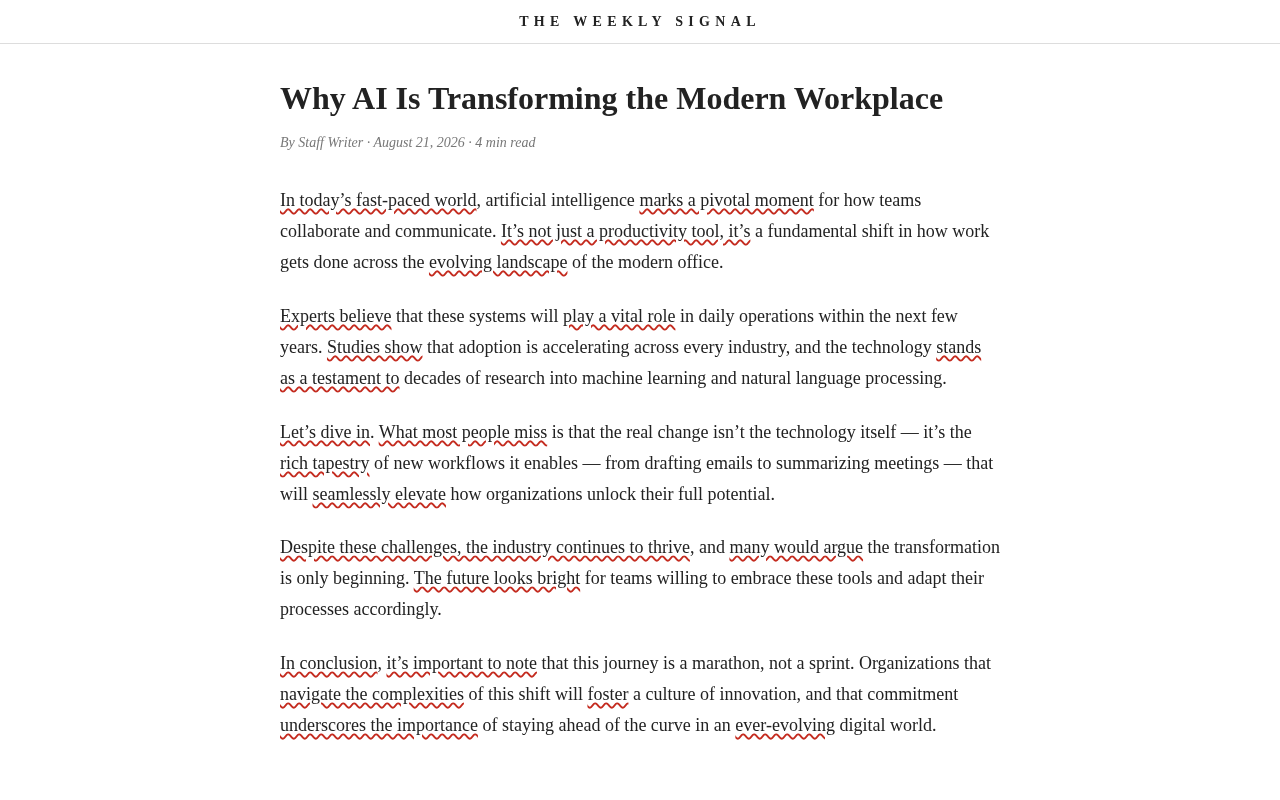
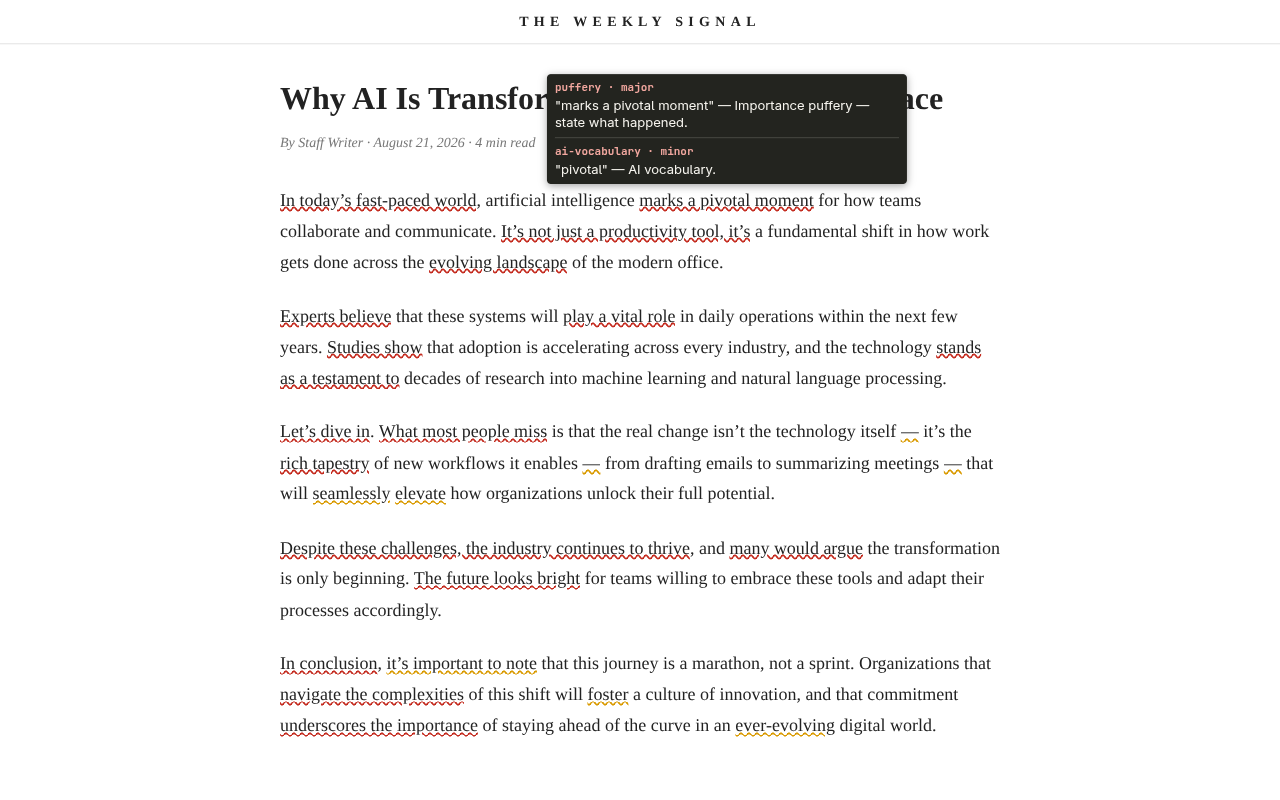
Color the popup by severity and recapture store screenshots
Popup marks and finding rows use the page colors: red for major, amber for
minor. A mark that merges overlapping findings is major if any of them is,
and its title names every rule, so popup marks explain themselves too.

The popup now has a test for its verdict, score, marked text, and findings,
which closes the one untested guarantee in AGENTS.md.

The page screenshot source no longer fakes underlines with hand-placed
spans. Both store screenshots are captured from the real extension, and
docs/releasing.md records how.

diff --git a/store-assets/source/page-underlines.html b/store-assets/source/page-underlines.html
@@ -4,6 +4,7 @@
 <meta charset="utf-8">
 <meta name="viewport" content="width=device-width, initial-scale=1">
 <title>Slop Detector — page underlines</title>
+<!-- Plain prose. Capture it with the extension loaded so the screenshot shows the real underlines and hover label. -->
 <style>
   * { box-sizing: border-box; }
   html, body { width: 1280px; height: 800px; margin: 0; overflow: hidden; background: #fff; color: #222; }
@@ -16,13 +17,6 @@
   h1 { margin: 0 0 14px; font-size: 32px; line-height: 1.15; }
   .byline { margin: 0 0 30px; color: #777; font-size: 14px; font-style: italic; }
   p { margin: 0 0 23px; font-size: 18px; line-height: 1.72; }
-  .mark {
-    text-decoration-line: underline;
-    text-decoration-style: wavy;
-    text-decoration-color: #C42B1F;
-    text-decoration-thickness: 1.5px;
-    text-underline-offset: 2px;
-  }
 </style>
 </head>
 <body>
@@ -31,15 +25,15 @@
     <h1>Why AI Is Transforming the Modern Workplace</h1>
     <p class="byline">By Staff Writer · August 21, 2026 · 4 min read</p>
 
-    <p><span class="mark">In today’s fast-paced world</span>, artificial intelligence <span class="mark">marks a pivotal moment</span> for how teams collaborate and communicate. <span class="mark">It’s not just a productivity tool, it’s</span> a fundamental shift in how work gets done across the <span class="mark">evolving landscape</span> of the modern office.</p>
+    <p>In today’s fast-paced world, artificial intelligence marks a pivotal moment for how teams collaborate and communicate. It’s not just a productivity tool, it’s a fundamental shift in how work gets done across the evolving landscape of the modern office.</p>
 
-    <p><span class="mark">Experts believe</span> that these systems will <span class="mark">play a vital role</span> in daily operations within the next few years. <span class="mark">Studies show</span> that adoption is accelerating across every industry, and the technology <span class="mark">stands as a testament to</span> decades of research into machine learning and natural language processing.</p>
+    <p>Experts believe that these systems will play a vital role in daily operations within the next few years. Studies show that adoption is accelerating across every industry, and the technology stands as a testament to decades of research into machine learning and natural language processing.</p>
 
-    <p><span class="mark">Let’s dive in</span>. <span class="mark">What most people miss</span> is that the real change isn’t the technology itself — it’s the <span class="mark">rich tapestry</span> of new workflows it enables — from drafting emails to summarizing meetings — that will <span class="mark">seamlessly elevate</span> how organizations unlock their full potential.</p>
+    <p>Let’s dive in. What most people miss is that the real change isn’t the technology itself — it’s the rich tapestry of new workflows it enables — from drafting emails to summarizing meetings — that will seamlessly elevate how organizations unlock their full potential.</p>
 
-    <p><span class="mark">Despite these challenges, the industry continues to thrive</span>, and <span class="mark">many would argue</span> the transformation is only beginning. <span class="mark">The future looks bright</span> for teams willing to embrace these tools and adapt their processes accordingly.</p>
+    <p>Despite these challenges, the industry continues to thrive, and many would argue the transformation is only beginning. The future looks bright for teams willing to embrace these tools and adapt their processes accordingly.</p>
 
-    <p><span class="mark">In conclusion</span>, <span class="mark">it’s important to note</span> that this journey is a marathon, not a sprint. Organizations that <span class="mark">navigate the complexities</span> of this shift will <span class="mark">foster</span> a culture of innovation, and that commitment <span class="mark">underscores the importance</span> of staying ahead of the curve in an <span class="mark">ever-evolving</span> digital world.</p>
+    <p>In conclusion, it’s important to note that this journey is a marathon, not a sprint. Organizations that navigate the complexities of this shift will foster a culture of innovation, and that commitment underscores the importance of staying ahead of the curve in an ever-evolving digital world.</p>
   </main>
 </body>
 </html>

diff --git a/extension/popup.js b/extension/popup.js
@@ -9,26 +9,31 @@
     return s.replace(/[&<>"']/g, (c) => ({ "&": "&amp;", "<": "&lt;", ">": "&gt;", '"': "&quot;", "'": "&#39;" }[c]));
   }
 
+  /* Overlapping findings share one mark, which is major if any of them is and names every rule. */
   function mergeSpans(findings) {
-    const spans = findings.filter((f) => f.end > f.start).map((f) => [f.start, f.end]);
-    spans.sort((a, b) => a[0] - b[0]);
+    const spans = findings.filter((f) => f.end > f.start).sort((a, b) => a.start - b.start);
     const merged = [];
-    for (const [s, e] of spans) {
+    for (const f of spans) {
       const last = merged[merged.length - 1];
-      if (last && s <= last[1]) last[1] = Math.max(last[1], e);
-      else merged.push([s, e]);
+      if (last && f.start <= last.end) {
+        last.end = Math.max(last.end, f.end);
+        last.findings.push(f);
+      } else {
+        merged.push({ start: f.start, end: f.end, findings: [f] });
+      }
     }
     return merged;
   }
 
   function renderMarked(text, findings) {
-    const spans = mergeSpans(findings);
     let html = "";
     let cursor = 0;
-    for (const [s, e] of spans) {
-      html += escapeHtml(text.slice(cursor, s));
-      html += `<mark>${escapeHtml(text.slice(s, e))}</mark>`;
-      cursor = e;
+    for (const { start, end, findings: within } of mergeSpans(findings)) {
+      const severity = within.some((f) => f.severity === "major") ? "major" : "minor";
+      const title = within.map((f) => `${f.ruleId} · ${f.severity}: ${f.message}`).join("\n");
+      html += escapeHtml(text.slice(cursor, start));
+      html += `<mark class="${severity}" title="${escapeHtml(title)}">${escapeHtml(text.slice(start, end))}</mark>`;
+      cursor = end;
     }
     html += escapeHtml(text.slice(cursor));
     return html;
@@ -62,7 +67,7 @@
     marked.style.display = "block";
 
     list.innerHTML = r.findings
-      .map((f) => `<li><span class="tag">${f.ruleId} · ${f.severity}</span>${escapeHtml(f.message)}</li>`)
+      .map((f) => `<li class="${f.severity === "major" ? "major" : "minor"}"><span class="tag">${f.ruleId} · ${f.severity}</span>${escapeHtml(f.message)}</li>`)
       .join("");
     list.style.display = "block";
   }

diff --git a/test-extension.js b/test-extension.js
@@ -127,3 +127,42 @@ test("the extension stays local and keeps its permission set", () => {
     assert.doesNotMatch(source, network, `${name} must not reach the network`);
   }
 });
+
+test("the popup shows a verdict, a score, the marked text, and why each finding fired", async (t) => {
+  const html = fs.readFileSync(extensionFile("popup.html"), "utf8");
+  const dom = new JSDOM(html, { runScripts: "outside-only" });
+  t.after(() => dom.window.close());
+  dom.window.chrome = {
+    storage: {
+      sync: { get: (defaults, callback) => callback(defaults), set: () => {} },
+      session: { get: async () => ({}), remove: async () => {} },
+    },
+  };
+  dom.window.eval(fs.readFileSync(extensionFile("engine.js"), "utf8"));
+  dom.window.eval(fs.readFileSync(extensionFile("popup.js"), "utf8"));
+  const doc = dom.window.document;
+  const text = "Two job offers. Two kids. This launch marks a pivotal moment for the team.";
+  doc.getElementById("input").value = text;
+  doc.getElementById("check").click();
+
+  const { findings, label, score } = dom.window.SlopEngine.analyze(text);
+  assert.equal(doc.getElementById("stamp").textContent, label);
+  assert.equal(doc.getElementById("score").textContent, `${score}/100`);
+  assert.equal(doc.getElementById("marked").textContent, text, "marking never changes the text");
+
+  const items = [...doc.querySelectorAll("#findings li")];
+  assert.equal(items.length, findings.length);
+  findings.forEach((f, i) => {
+    assert.ok(items[i].textContent.includes(`${f.ruleId} · ${f.severity}`));
+    assert.ok(items[i].textContent.includes(f.message));
+    assert.ok(items[i].classList.contains(f.severity));
+  });
+
+  const marks = [...doc.querySelectorAll("#marked mark")];
+  const pivotal = marks.find((m) => m.textContent.includes("pivotal"));
+  assert.ok(pivotal.classList.contains("major"), "a span holding a major finding is marked major");
+  assert.match(pivotal.title, /puffery · major/);
+  assert.match(pivotal.title, /ai-vocabulary · minor/);
+  const fragment = marks.find((m) => m.textContent === "Two job offers.");
+  assert.ok(fragment.classList.contains("minor"));
+});

diff --git a/extension/popup.html b/extension/popup.html
@@ -12,6 +12,7 @@
     --amber: #8A6100;
     --green: #2E6B34;
     --mark: #F9E27D;
+    --minor: #A87400;
   }
   * { box-sizing: border-box; }
   body {
@@ -52,12 +53,14 @@
     font: 13px/1.7 "Courier New", monospace; white-space: pre-wrap; word-wrap: break-word;
   }
   mark {
-    background: var(--mark);
+    background: var(--mark); color: inherit;
     border-bottom: 2px solid var(--red);
     padding: 0 1px;
   }
+  mark.minor { background: #FBF0C4; border-bottom-color: var(--minor); }
   #findings { margin: 12px 0 0; padding: 0; list-style: none; display: none; }
   #findings li { margin-bottom: 8px; padding-left: 10px; border-left: 3px solid var(--red); }
+  #findings li.minor { border-left-color: var(--minor); }
   #findings .tag {
     display: block; font: 700 10px/1.6 "Courier New", monospace;
     letter-spacing: .08em; text-transform: uppercase; color: var(--graphite);

diff --git a/AGENTS.md b/AGENTS.md
@@ -25,7 +25,7 @@ and keep README.md and STORE_LISTING.md describing it.
 | Underline color follows the rule's severity: red for major, amber for minor. A minor finding inside a major one draws no second line but still counts and shows on hover. | `test-scanner.js`: "each underline is colored by its rule's severity, with major painted over minor" |
 | Hovering an underline shows every finding under the pointer with its rule ID, severity, and message. | `test-scanner.js`: "hovering an underline shows the rule and why it fired" |
 | The toolbar badge shows the page's finding count. | `test-extension.js`: "background maps scanner counts to tab-scoped action state" |
-| The popup checks pasted text and shows a verdict, a score, the marked text, and each finding's rule, severity, and message. | `extension/popup.js` (no automated test yet) |
+| The popup checks pasted text and shows a verdict, a score, the marked text, and each finding's rule, severity, and message. | `test-extension.js`: "the popup shows a verdict, a score, the marked text, and why each finding fired" |
 | Right-clicking selected text opens it in the popup. | `test-extension.js`: "context-menu selections open in the extension popup" |
 | The auto-scan toggle turns page scanning off and on. | `test-scanner.js`: "toggle off clears highlights and the toolbar count" |
 | The CLI lints repositories and agent output, with exit code 1 on errors and JSON on request. | `test-cli.js` |

diff --git a/docs/releasing.md b/docs/releasing.md
@@ -38,6 +38,19 @@ slop-detector-chrome-store-v1.1.1.zip.sha256
 The workflow retains both files as a workflow artifact and attaches them to a
 draft GitHub Release. Review the notes and artifacts, then publish the release.
 
+## Store screenshots
+
+Capture both screenshots from the real extension, so they show what it draws.
+Never mark findings by hand in the source page.
+
+- `screenshot-page-underlines.png`: serve `store-assets/source/` locally, open
+  `page-underlines.html` in Chromium with `extension/` loaded and a 1280×800
+  viewport, and hover an underline so the label shows.
+- `screenshot-popup-certified-slop.png`: open the extension's `popup.html` at a
+  420-pixel-wide viewport, run a check on a sloppy draft, and place the capture
+  at (431, 57) on a 1280×800 `#E9E5DA` canvas with a 1-pixel `#23241F` border
+  and a 6-pixel offset `#41413B` shadow.
+
 ## Publish Chrome
 
 Upload `slop-detector-chrome-store-v1.1.1.zip` from the GitHub Release to the

diff --git a/STORE_LISTING.md b/STORE_LISTING.md
@@ -2,7 +2,7 @@
 
 ## Upload package
 
-Upload `dist/slop-detector-chrome-store-v1.2.1.zip`. It contains the committed
+Upload `dist/slop-detector-chrome-store-v1.3.0.zip`. It contains the committed
 `extension/` tree with `manifest.json` at the ZIP root. Build it from a clean
 working tree:
 
